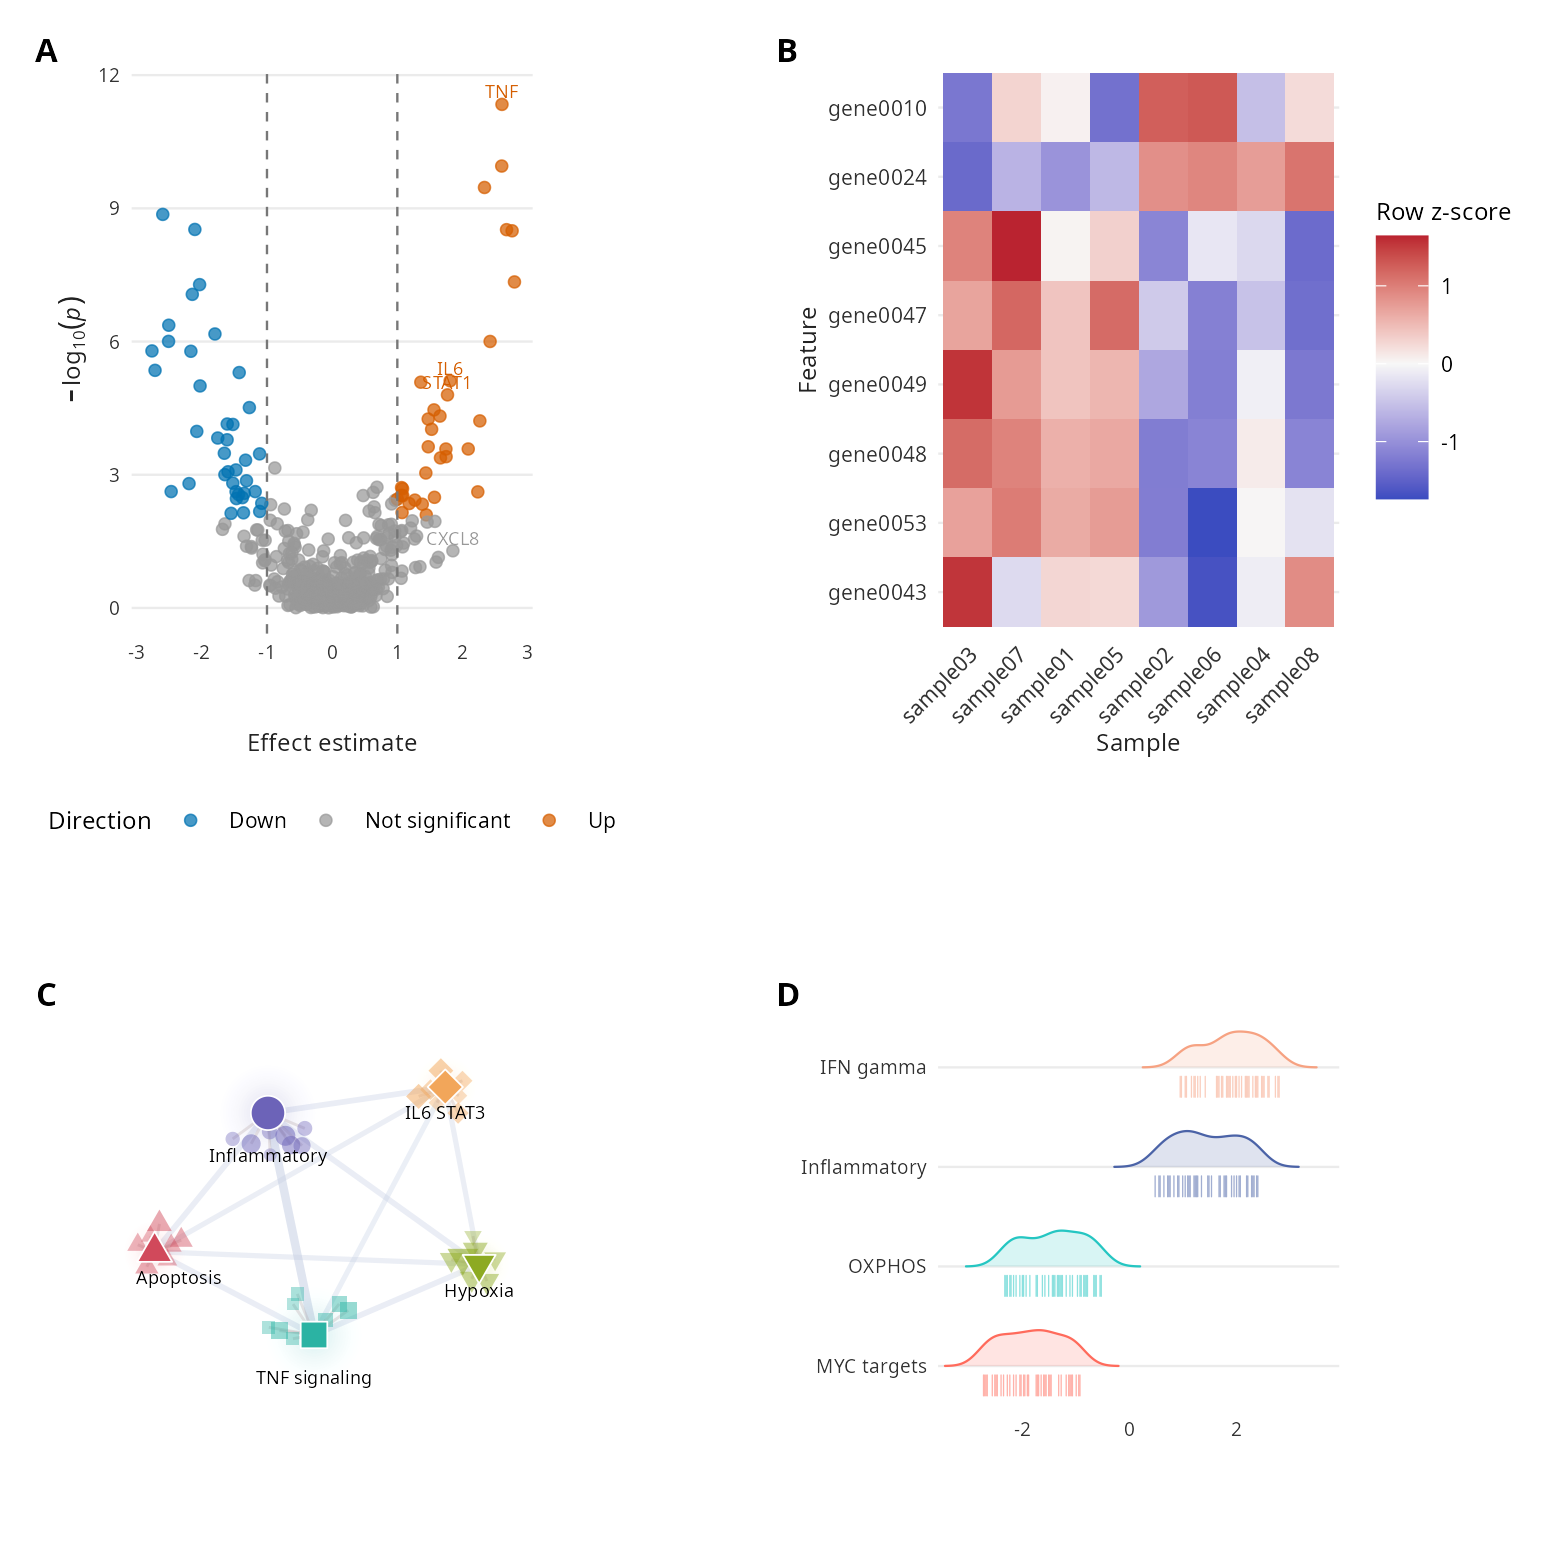
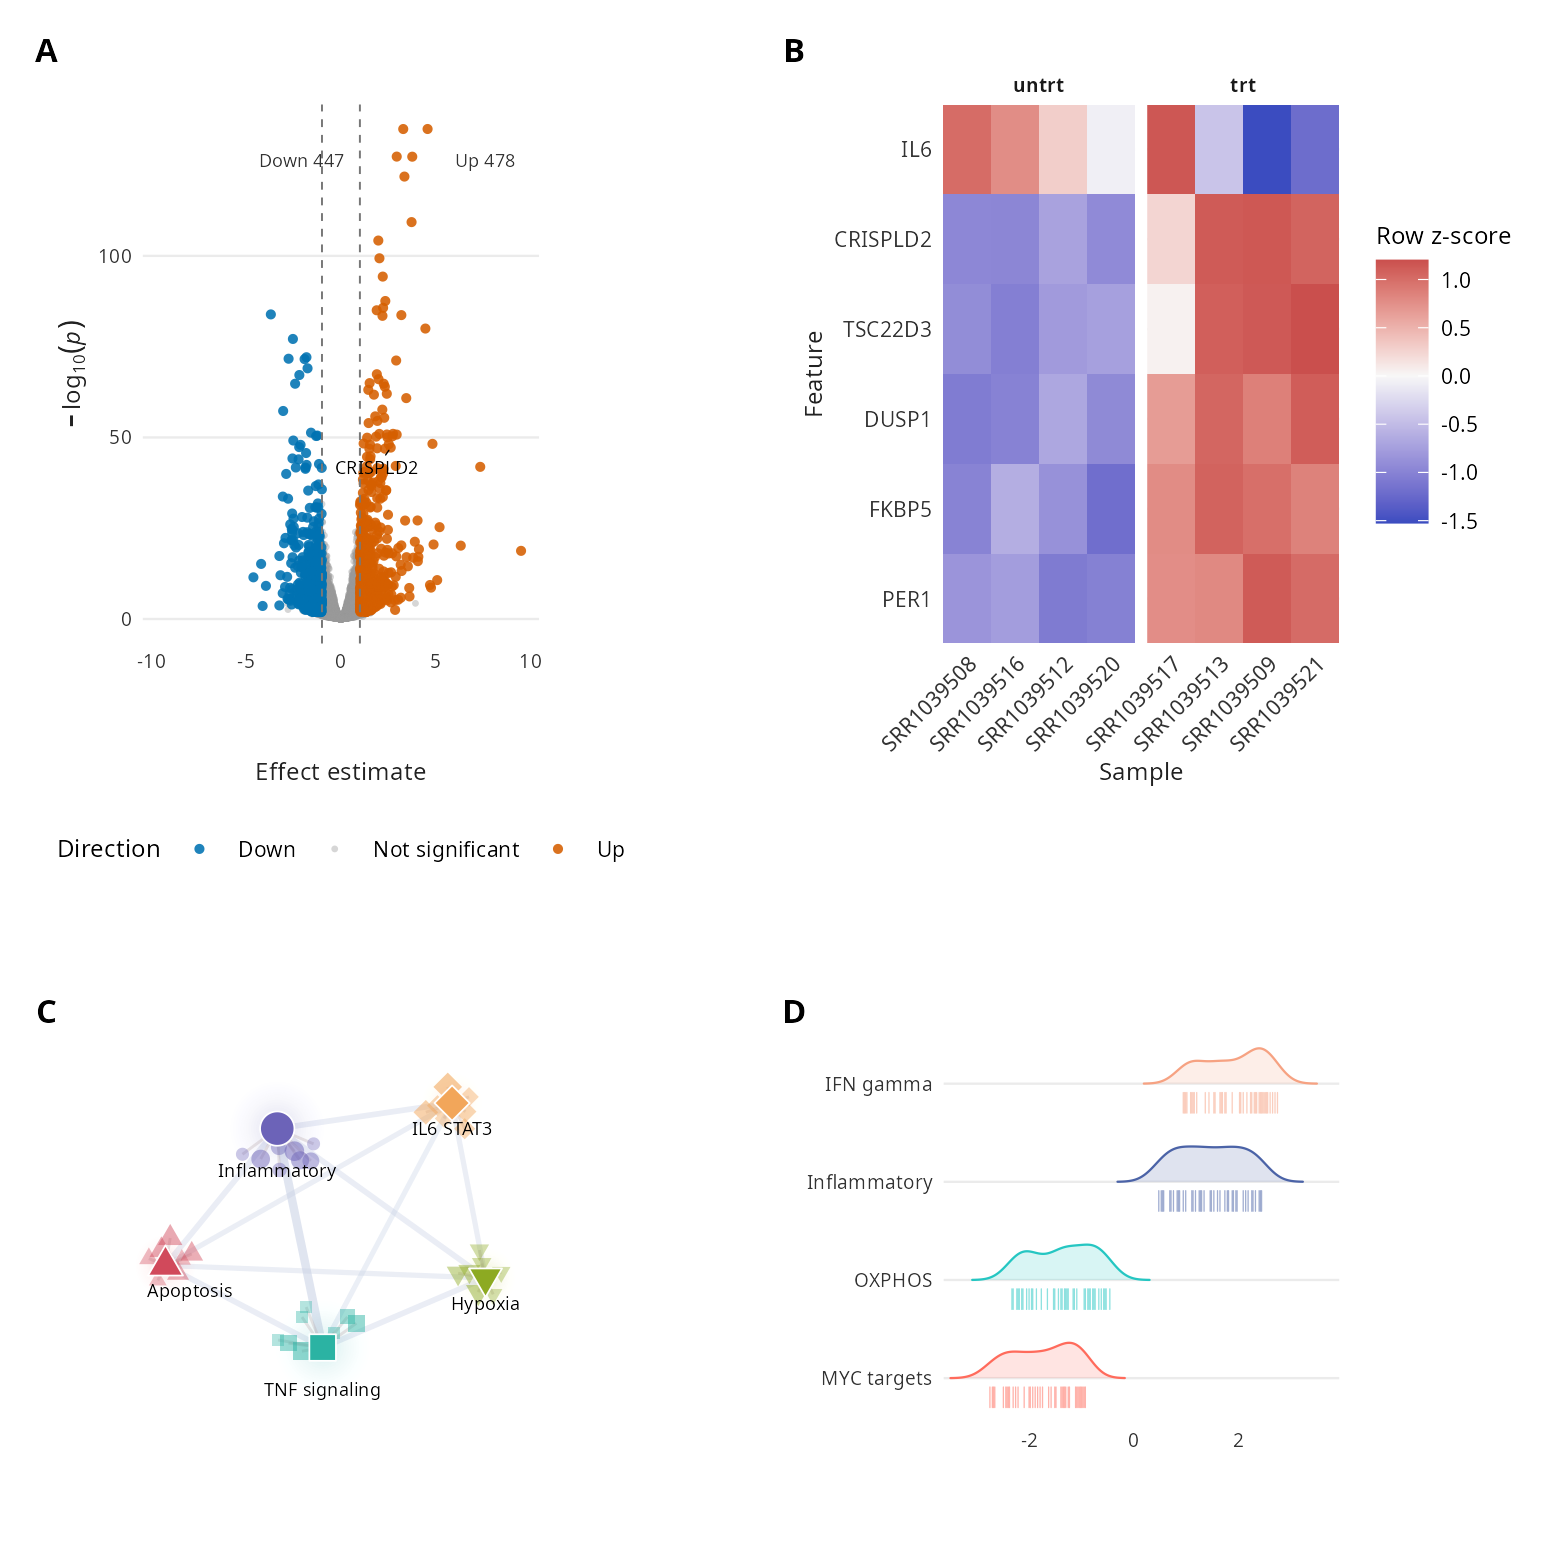
docs(readme): draw the gallery volcano and heatmap from airway
The landing-page DE panels now use the dexamethasone experiment.
ORA and GSEA stay schematic so the gallery does not rerun GO.

diff --git a/README.md b/README.md
@@ -157,7 +157,7 @@ simulation.
 
 ## Plots
 
-<img src="man/figures/readme-gallery.png" alt="Volcano, heatmap, ORA community network, and GSEA ridge plots from bulkMAE">
+<img src="man/figures/readme-gallery.png" alt="Airway dexamethasone volcano and nominated-gene heatmap, plus schematic ORA network and GSEA ridge plots from bulkMAE">
 
 ## Documentation
 
